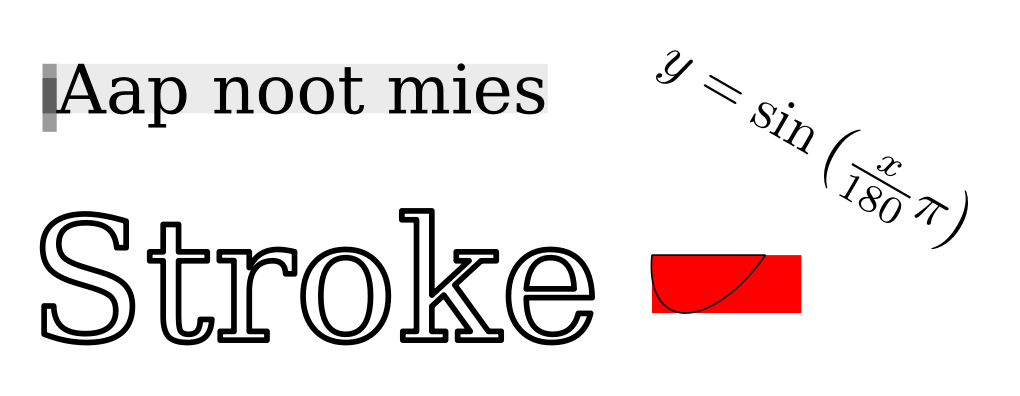
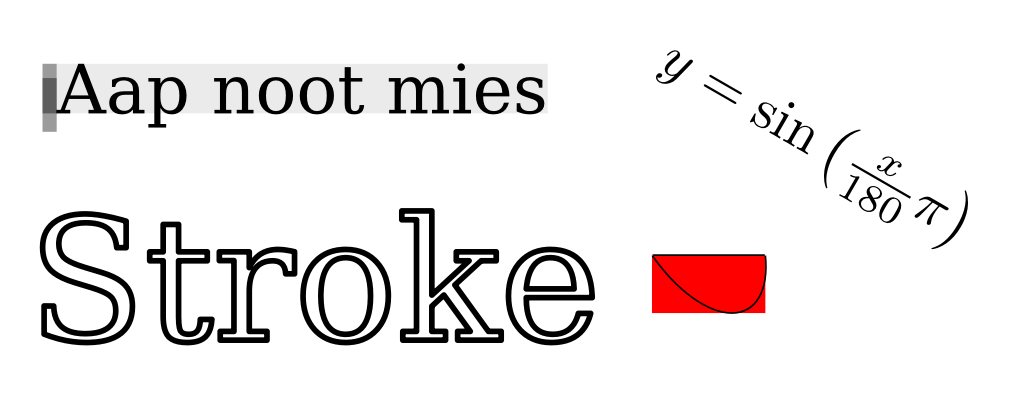
Move to Cartesian coordinate system

Changed region(s): [[0.6382, 0.6364, 0.7902, 0.8182]]

diff --git a/canvas.go b/canvas.go
@@ -151,7 +151,7 @@ func (c *C) WriteSVG(w io.Writer) {
 	}
 	for _, l := range c.layers {
 		if l.t == pathLayer {
-			p := l.path.Copy().Translate(l.x, l.y)
+			p := l.path.Copy().Translate(l.x, l.y).Scale(1.0, -1.0).Translate(0.0, c.h)
 			w.Write([]byte("<path d=\""))
 			w.Write([]byte(p.String()))
 			if l.color != color.Black {
@@ -165,7 +165,7 @@ func (c *C) WriteSVG(w io.Writer) {
 			w.Write([]byte("<text x=\""))
 			writeFloat64(w, l.x)
 			w.Write([]byte("\" y=\""))
-			writeFloat64(w, l.y)
+			writeFloat64(w, c.h-l.y)
 			w.Write([]byte("\" font-family=\""))
 			w.Write([]byte(name))
 			w.Write([]byte("\" font-size=\""))
@@ -216,7 +216,7 @@ func (c *C) WritePDF(writer io.Writer) error {
 		}
 
 		if l.t == pathLayer {
-			p := l.path.Copy().Translate(l.x, l.y).Scale(1.0, -1.0).Translate(0.0, c.h)
+			p := l.path.Copy().Translate(l.x, l.y)
 			buf.WriteString(" ")
 			buf.WriteString(p.ToPDF())
 		}
@@ -241,6 +241,7 @@ func (c *C) WriteImage(dpi float64) *image.RGBA {
 	bg := Rectangle(0.0, 0.0, c.w, c.h)
 	layers := append([]layer{{pathLayer, 0.0, 0.0, color.White, FontFace{}, bg, ""}}, c.layers...)
 
+	dy := float32(c.h * dpm)
 	for _, l := range layers {
 		if l.t == textLayer {
 			l.path = l.fontFace.ToPath(l.text)
@@ -255,13 +256,13 @@ func (c *C) WriteImage(dpi float64) *image.RGBA {
 				cmd := p.d[i]
 				switch cmd {
 				case MoveToCmd:
-					ras.MoveTo(float32(p.d[i+1]*dpm), float32(p.d[i+2]*dpm))
+					ras.MoveTo(float32(p.d[i+1]*dpm), dy-float32(p.d[i+2]*dpm))
 				case LineToCmd:
-					ras.LineTo(float32(p.d[i+1]*dpm), float32(p.d[i+2]*dpm))
+					ras.LineTo(float32(p.d[i+1]*dpm), dy-float32(p.d[i+2]*dpm))
 				case QuadToCmd:
-					ras.QuadTo(float32(p.d[i+1]*dpm), float32(p.d[i+2]*dpm), float32(p.d[i+3]*dpm), float32(p.d[i+4]*dpm))
+					ras.QuadTo(float32(p.d[i+1]*dpm), dy-float32(p.d[i+2]*dpm), float32(p.d[i+3]*dpm), dy-float32(p.d[i+4]*dpm))
 				case CubeToCmd:
-					ras.CubeTo(float32(p.d[i+1]*dpm), float32(p.d[i+2]*dpm), float32(p.d[i+3]*dpm), float32(p.d[i+4]*dpm), float32(p.d[i+5]*dpm), float32(p.d[i+6]*dpm))
+					ras.CubeTo(float32(p.d[i+1]*dpm), dy-float32(p.d[i+2]*dpm), float32(p.d[i+3]*dpm), dy-float32(p.d[i+4]*dpm), float32(p.d[i+5]*dpm), dy-float32(p.d[i+6]*dpm))
 				case ArcToCmd:
 					panic("arcs should have been replaced")
 				case CloseCmd:
@@ -308,7 +309,7 @@ func (c *C) WriteEPS(w io.Writer) {
 		}
 
 		if l.t == pathLayer {
-			p := l.path.Copy().Translate(l.x, l.y).Scale(1.0, -1.0).Translate(0.0, c.h)
+			p := l.path.Copy().Translate(l.x, l.y)
 			w.Write([]byte(p.ToPS()))
 		}
 	}

diff --git a/example/example.go b/example/example.go
@@ -87,10 +87,10 @@ func drawText(c *canvas.C, x, y float64, size float64, text string) {
 	w, h := face.Bounds(text)
 
 	c.SetColor(color.RGBA{0, 0, 0, 20})
-	c.DrawPath(x, y, canvas.Rectangle(0, 0, w, -h))
+	c.DrawPath(x, y, canvas.Rectangle(0, 0, w, h))
 	c.SetColor(color.RGBA{0, 0, 0, 100})
-	c.DrawPath(x, y, canvas.Rectangle(0, -metrics.CapHeight, -2.5, 12.0))
-	c.DrawPath(x, y, canvas.Rectangle(0, 0, -2.5, -metrics.XHeight))
+	c.DrawPath(x, y, canvas.Rectangle(0, metrics.CapHeight, -2.5, -12.0))
+	c.DrawPath(x, y, canvas.Rectangle(0, 0, -2.5, metrics.XHeight))
 
 	c.SetColor(canvas.Black)
 	c.SetFont(face)
@@ -100,12 +100,12 @@ func drawText(c *canvas.C, x, y float64, size float64, text string) {
 func Draw(c *canvas.C) {
 	c.Open(180, 70)
 
-	drawText(c, 10, 20, 12.0, "Aap noot mies")
+	drawText(c, 10, 50, 12.0, "Aap noot mies")
 
 	face := dejaVuSerif.Face(30)
 	c.SetFont(face)
 	p := face.ToPath("Stroke")
-	c.DrawPath(5, 60, p.Stroke(1, canvas.RoundCapper, canvas.RoundJoiner))
+	c.DrawPath(5, 10, p.Stroke(1, canvas.RoundCapper, canvas.RoundJoiner))
 
 	latex, err := canvas.ParseLaTeX(`$y = \sin\left(\frac{x}{180}\pi\right)$`)
 	if err != nil {
@@ -113,7 +113,7 @@ func Draw(c *canvas.C) {
 	}
 	latex.Rotate(-30, 0, 0)
 	c.SetColor(canvas.Black)
-	c.DrawPath(120, 5, latex)
+	c.DrawPath(120, 65, latex)
 
 	rot := 30.0
 	w := 20.0
@@ -122,8 +122,8 @@ func Draw(c *canvas.C) {
 		panic(err)
 	}
 	c.SetColor(canvas.Red)
-	c.DrawPath(115, 45, ellipse.Bounds().ToPath())
+	c.DrawPath(115, 25, ellipse.Bounds().ToPath())
 	ellipse = ellipse. /*Dash(0.8, 1.2, 0.8).*/ Stroke(0.3, canvas.RoundCapper, canvas.BevelJoiner)
 	c.SetColor(canvas.Black)
-	c.DrawPath(115, 45, ellipse)
+	c.DrawPath(115, 25, ellipse)
 }

diff --git a/font.go b/font.go
@@ -213,20 +213,20 @@ func (ff FontFace) ToPath(s string) *Path {
 						p.Close()
 					}
 					end = fromP26_6(segment.Args[0])
-					p.MoveTo(x+end.X, y+end.Y)
+					p.MoveTo(x+end.X, -y-end.Y)
 					start0 = end
 				case sfnt.SegmentOpLineTo:
 					end = fromP26_6(segment.Args[0])
-					p.LineTo(x+end.X, y+end.Y)
+					p.LineTo(x+end.X, -y-end.Y)
 				case sfnt.SegmentOpQuadTo:
 					c := fromP26_6(segment.Args[0])
 					end = fromP26_6(segment.Args[1])
-					p.QuadTo(x+c.X, y+c.Y, x+end.X, y+end.Y)
+					p.QuadTo(x+c.X, -y-c.Y, x+end.X, -y-end.Y)
 				case sfnt.SegmentOpCubeTo:
 					c0 := fromP26_6(segment.Args[0])
 					c1 := fromP26_6(segment.Args[1])
 					end = fromP26_6(segment.Args[2])
-					p.CubeTo(x+c0.X, y+c0.Y, x+c1.X, y+c1.Y, x+end.X, y+end.Y)
+					p.CubeTo(x+c0.X, -y-c0.Y, x+c1.X, -y-c1.Y, x+end.X, -y-end.Y)
 				}
 			}
 			if !p.Empty() && start0.Equals(end) {
@@ -240,7 +240,7 @@ func (ff FontFace) ToPath(s string) *Path {
 			prevIndex = index
 		}
 		x = 0.0
-		y += ff.Metrics().LineHeight
+		y -= ff.Metrics().LineHeight
 	}
 	return p
 }

diff --git a/path_stroke.go b/path_stroke.go
@@ -20,7 +20,7 @@ var RoundCapper Capper = CapperFunc(roundCapper)
 
 func roundCapper(p *Path, halfWidth float64, pivot, n0 Point) {
 	end := pivot.Sub(n0)
-	p.ArcTo(halfWidth, halfWidth, 0, false, false, end.X, end.Y)
+	p.ArcTo(halfWidth, halfWidth, 0, false, true, end.X, end.Y)
 }
 
 // ButtCapper caps the start or end of a path by a butt cap.
@@ -73,9 +73,9 @@ func roundJoiner(rhs, lhs *Path, halfWidth float64, pivot, n0, n1 Point) {
 	cw := n0.Rot90CW().Dot(n1) >= 0
 	if cw { // bend to the right, ie. CW
 		rhs.LineTo(rEnd.X, rEnd.Y)
-		lhs.ArcTo(halfWidth, halfWidth, 0, false, true, lEnd.X, lEnd.Y)
+		lhs.ArcTo(halfWidth, halfWidth, 0, false, false, lEnd.X, lEnd.Y)
 	} else { // bend to the left, ie. CCW
-		rhs.ArcTo(halfWidth, halfWidth, 0, false, false, rEnd.X, rEnd.Y)
+		rhs.ArcTo(halfWidth, halfWidth, 0, false, true, rEnd.X, rEnd.Y)
 		lhs.LineTo(lEnd.X, lEnd.Y)
 	}
 }

diff --git a/util.go b/util.go
@@ -71,18 +71,18 @@ func (p Point) Mul(f float64) Point {
 }
 
 func (p Point) Rot90CW() Point {
-	return Point{-p.Y, p.X}
+	return Point{p.Y, -p.X}
 }
 
 func (p Point) Rot90CCW() Point {
-	return Point{p.Y, -p.X}
+	return Point{-p.Y, p.X}
 }
 
 func (p Point) Rot(rot float64, p0 Point) Point {
 	a := rot * math.Pi / 180.0
 	return Point{
-		p0.X + math.Cos(a)*(p.X-p0.X) + math.Sin(a)*(p.Y-p0.Y),
-		p0.Y + math.Cos(a)*(p.Y-p0.Y) - math.Sin(a)*(p.X-p0.X),
+		p0.X + math.Cos(a)*(p.X-p0.X) - math.Sin(a)*(p.Y-p0.Y),
+		p0.Y + math.Cos(a)*(p.Y-p0.Y) + math.Sin(a)*(p.X-p0.X),
 	}
 }
 

diff --git a/latex.go b/latex.go
@@ -94,7 +94,7 @@ func ParseLaTeX(s string) (*Path, error) {
 				return nil, l.Err()
 			}
 			if !p.Empty() {
-				p = p.Translate(-x0, -y0)
+				p = p.Translate(-x0, -y0).Scale(1.0, -1.0)
 			}
 			_ = ioutil.WriteFile(path.Join(tmpDir, hash), []byte(p.String()), 0644)
 			return p, nil

diff --git a/path.go b/path.go
@@ -931,7 +931,7 @@ func ParseSVGPath(s string) (*Path, error) {
 				f += x
 				g += y
 			}
-			p.ArcTo(a, b, c, d == 1.0, e == 1.0, f, g)
+			p.ArcTo(a, b, c, d == 1.0, e == 0.0, f, g)
 		default:
 			return nil, fmt.Errorf("unknown command in SVG path: %c", cmd)
 		}
